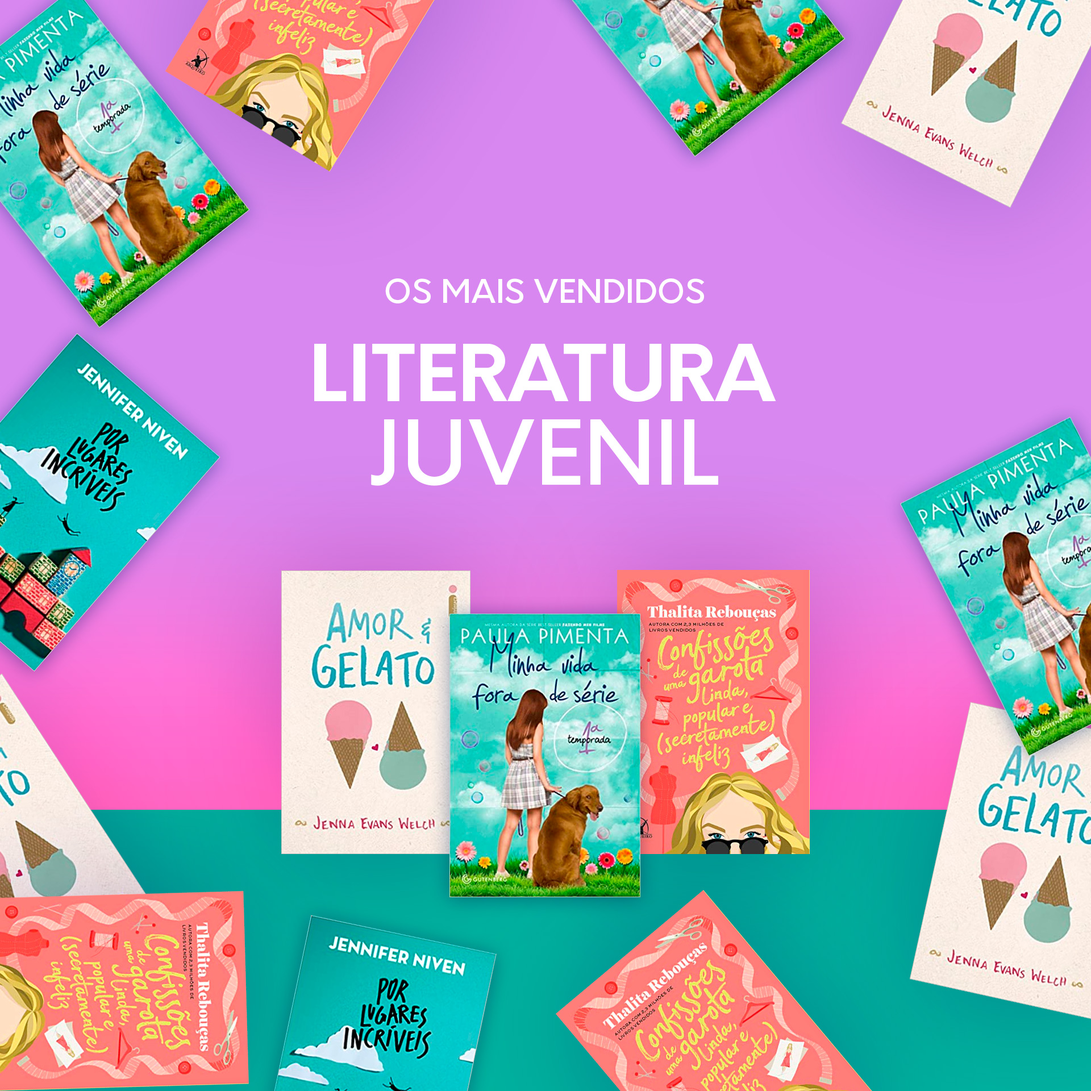
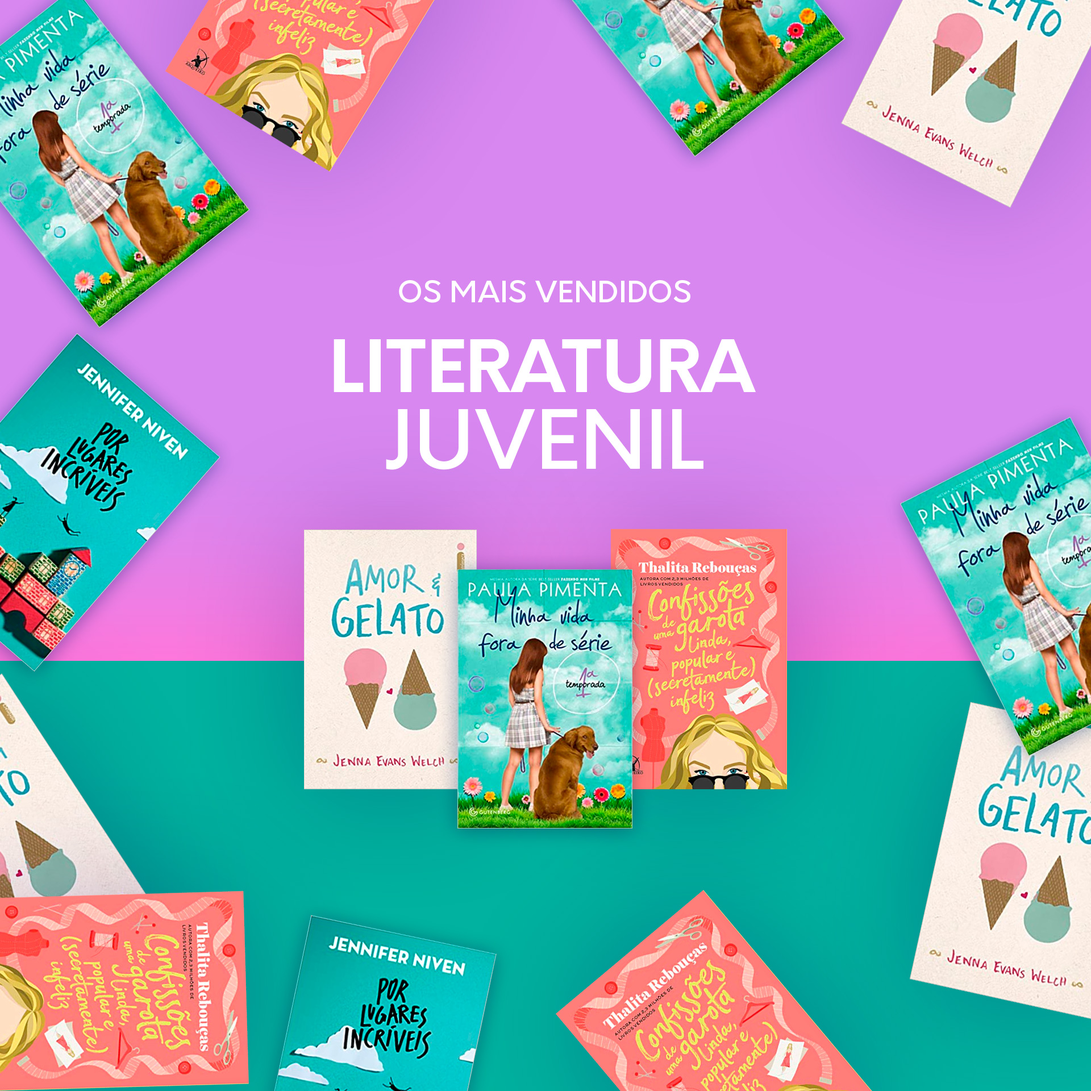
Slideshow alterações

Changed region(s): [[0.0, 0.3125, 0.9375, 0.8438], [0.3438, 0.25, 0.6562, 0.2812]]

diff --git a/src/pages/Home.jsx b/src/pages/Home.jsx
@@ -6,7 +6,7 @@ import { buscaLivros } from '../services/livroApi';
 
 const fotos = [
   'https://raw.githubusercontent.com/gabrielaalvescosta/livraria-liberta/slideshow/src/assets/slideshow.jpg',
-  'https://images.unsplash.com/photo-1584226761916-3fd67ab5ac3a?crop=entropy&cs=tinysrgb&fit=crop&fm=jpg&h=500&ixlib=rb-1.2.1&q=80&w=500'
+  'https://raw.githubusercontent.com/gabrielaalvescosta/livraria-liberta/cart/src/assets/literatura-juvenil.jpg'
 ];
 
 function Home() {
